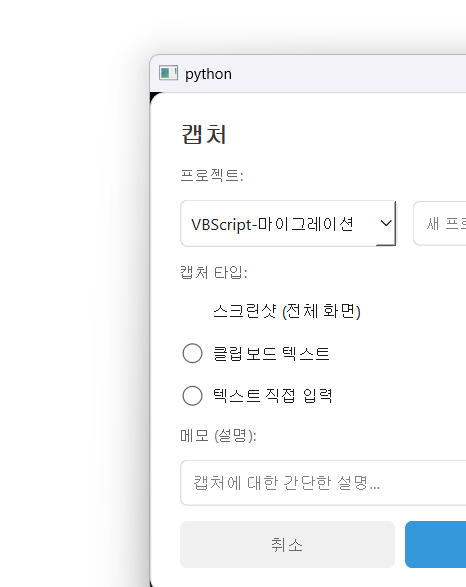
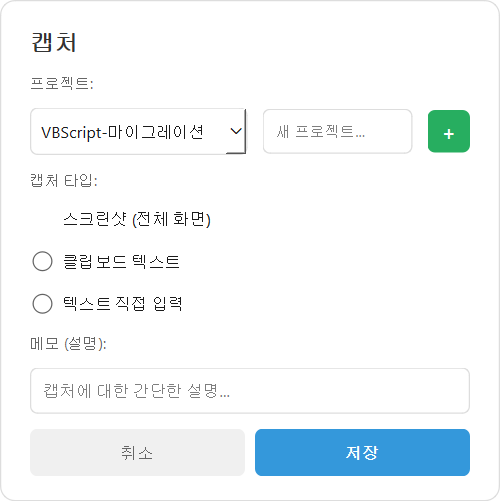
fix: 스크린샷 widget.grab()으로 완전한 캡처
mss 화면 캡처 대신 Qt widget.grab()으로 위젯을 직접 렌더링 캡처.
버튼 잘림, 배경 노출 문제 완전 해결.

diff --git a/scripts/capture_all_screens.py b/scripts/capture_all_screens.py
@@ -1,4 +1,4 @@
-"""모든 UI 화면을 흰 배경 위에서 캡처 (개인정보 노출 방지)."""
+"""Qt widget.grab()으로 정확한 위젯 캡처."""
 
 import sys
 import time
@@ -6,54 +6,24 @@ from pathlib import Path
 
 sys.path.insert(0, str(Path(__file__).parent.parent))
 
-import mss
-from PIL import Image
-from PyQt6.QtCore import Qt, QRect
-from PyQt6.QtGui import QColor
-from PyQt6.QtWidgets import QApplication, QWidget
+from PyQt6.QtCore import Qt
+from PyQt6.QtWidgets import QApplication
 
 DOCS_DIR = Path(__file__).parent.parent / "docs" / "screenshots"
 DOCS_DIR.mkdir(parents=True, exist_ok=True)
 DATA_DIR = Path(__file__).parent.parent / "data"
 
 
-class WhiteBackground(QWidget):
-    """전체 화면 흰색 배경."""
-
-    def __init__(self):
-        super().__init__()
-        self.setWindowFlags(Qt.WindowType.FramelessWindowHint)
-        self.setStyleSheet("background: white;")
-        screen = QApplication.primaryScreen()
-        if screen:
-            self.setGeometry(screen.geometry())
-        self.showFullScreen()
-
-
-def capture_widget(widget, filename, padding=8, extra_bottom=0, extra_right=0):
-    """위젯 영역만 크롭 캡처 (타이틀바 포함)."""
-    frame = widget.frameGeometry()
-    with mss.mss() as sct:
-        region = {
-            "left": max(0, frame.x() - padding),
-            "top": max(0, frame.y() - padding),
-            "width": frame.width() + padding * 2 + extra_right,
-            "height": frame.height() + padding * 2 + extra_bottom,
-        }
-        shot = sct.grab(region)
-        img = Image.frombytes("RGB", shot.size, shot.bgra, "raw", "BGRX")
-        path = DOCS_DIR / filename
-        img.save(str(path))
-        print(f"OK: {filename} ({img.size[0]}x{img.size[1]})")
+def save_widget(widget, filename):
+    """widget.grab()으로 정확히 캡처."""
+    pixmap = widget.grab()
+    path = DOCS_DIR / filename
+    pixmap.save(str(path))
+    print(f"  -> {filename} ({pixmap.width()}x{pixmap.height()})")
 
 
 def main():
     app = QApplication(sys.argv)
-
-    # 흰 배경으로 화면 덮기
-    bg = WhiteBackground()
-    app.processEvents()
-    time.sleep(0.3)
 
     from src.project_manager import ProjectManager
     pm = ProjectManager(data_dir=DATA_DIR)
@@ -61,74 +31,70 @@ def main():
     # 1. 프로젝트 관리 윈도우
     from src.ui.project_list import ProjectListWindow
     win = ProjectListWindow(pm)
-    win.setWindowFlags(Qt.WindowType.WindowStaysOnTopHint)
-    win.setGeometry(100, 50, 850, 620)
+    win.resize(820, 560)
     win.show()
-    win.raise_()
     for i in range(win._list_widget.count()):
-        item = win._list_widget.item(i)
-        if "Migration" in item.text():
+        if "Migration" in win._list_widget.item(i).text():
             win._list_widget.setCurrentRow(i)
             break
     app.processEvents()
     time.sleep(0.5)
     app.processEvents()
-    capture_widget(win, "01_project_window.png")
-    print("1. Project window")
+    save_widget(win, "01_project_window.png")
     win.close()
 
-    # 2. 캡처 다이얼로그
+    # 2. 캡처 다이얼로그 (기본)
     from src.ui.capture_dialog import CaptureDialog
-    dlg = CaptureDialog(pm)
-    dlg.setWindowFlags(Qt.WindowType.WindowStaysOnTopHint | Qt.WindowType.Dialog)
-    dlg.setAttribute(Qt.WidgetAttribute.WA_TranslucentBackground, False)
-    dlg.setStyleSheet("background: white; border-radius: 12px;")
-    dlg.show()
-    dlg.raise_()
-    # 화면 중앙
-    screen = app.primaryScreen().geometry()
-    dlg.move((screen.width() - dlg.width()) // 2, (screen.height() - dlg.height()) // 3)
+    dlg1 = CaptureDialog(pm)
+    dlg1.setAttribute(Qt.WidgetAttribute.WA_TranslucentBackground, False)
+    dlg1.setStyleSheet("background: white;")
+    dlg1.show()
     app.processEvents()
     time.sleep(0.3)
     app.processEvents()
-    capture_widget(dlg, "02_capture_dialog.png", extra_bottom=140, extra_right=50)
-    print("2. Capture dialog")
+    save_widget(dlg1, "02_capture_dialog.png")
+    dlg1.close()
+    if hasattr(dlg1, '_overlay'):
+        dlg1._overlay.close()
 
     # 3. 텍스트 입력 모드
-    dlg._radio_text.setChecked(True)
+    dlg2 = CaptureDialog(pm)
+    dlg2.setAttribute(Qt.WidgetAttribute.WA_TranslucentBackground, False)
+    dlg2.setStyleSheet("background: white;")
+    dlg2._radio_text.setChecked(True)
     app.processEvents()
-    time.sleep(0.2)
-    dlg._text_input.setPlainText("Customer Meeting Notes\n- Migration timeline confirmed\n- SAP integration test completed\n- Next review: April 10")
-    dlg._memo_edit.setText("Weekly sync notes")
+    dlg2._text_input.setPlainText(
+        "Customer Meeting Notes\n"
+        "- Migration timeline confirmed\n"
+        "- SAP integration test completed\n"
+        "- Next review: April 10"
+    )
+    dlg2._memo_edit.setText("Weekly sync notes")
+    dlg2.show()
     app.processEvents()
-    time.sleep(0.1)
-    capture_widget(dlg, "03_capture_text.png", extra_bottom=140, extra_right=50)
-    print("3. Text input")
-    dlg.close()
-    if hasattr(dlg, '_overlay'):
-        dlg._overlay.close()
+    time.sleep(0.3)
+    app.processEvents()
+    save_widget(dlg2, "03_capture_text.png")
+    dlg2.close()
+    if hasattr(dlg2, '_overlay'):
+        dlg2._overlay.close()
 
     # 4. 다운로드 팝업
     from src.ui.download_popup import DownloadPopup
     fake_file = Path.home() / "Downloads" / "EDM_Collaboration_Overview.pdf"
     popup = DownloadPopup(fake_file, pm)
-    popup.setWindowFlags(Qt.WindowType.WindowStaysOnTopHint | Qt.WindowType.Dialog)
     popup.setAttribute(Qt.WidgetAttribute.WA_TranslucentBackground, False)
-    popup.setStyleSheet("background: white; border-radius: 12px;")
+    popup.setStyleSheet("background: white;")
     popup.show()
-    popup.raise_()
-    popup.move((screen.width() - popup.width()) // 2, (screen.height() - popup.height()) // 3)
     app.processEvents()
     time.sleep(0.3)
     app.processEvents()
-    capture_widget(popup, "04_download_popup.png", extra_bottom=140, extra_right=50)
-    print("4. Download popup")
+    save_widget(popup, "04_download_popup.png")
     popup.close()
     if hasattr(popup, '_overlay'):
         popup._overlay.close()
 
-    bg.close()
-    print("\nDone! All widget-only on white background.")
+    print("\nDone!")
     app.quit()
 
 
